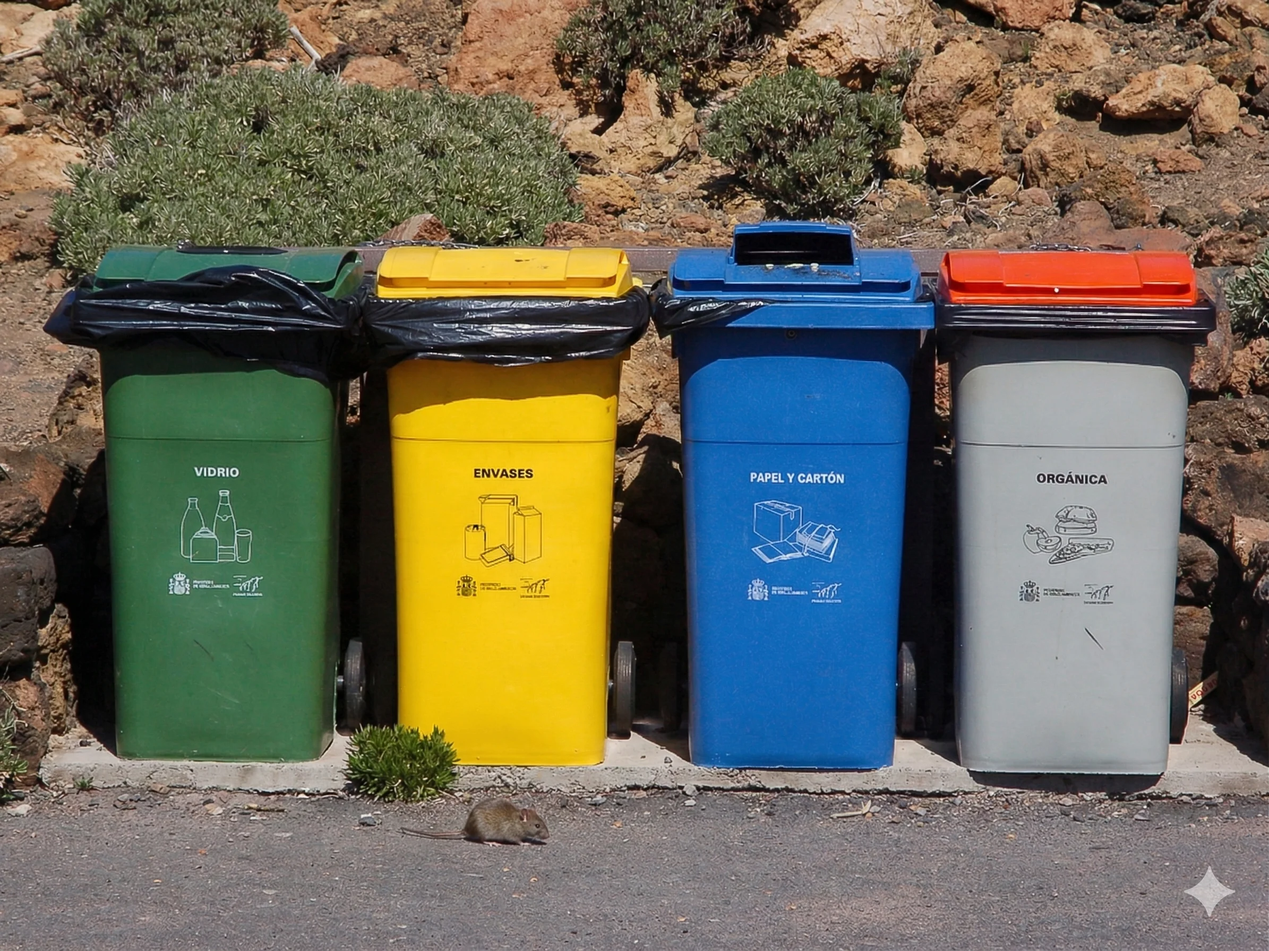
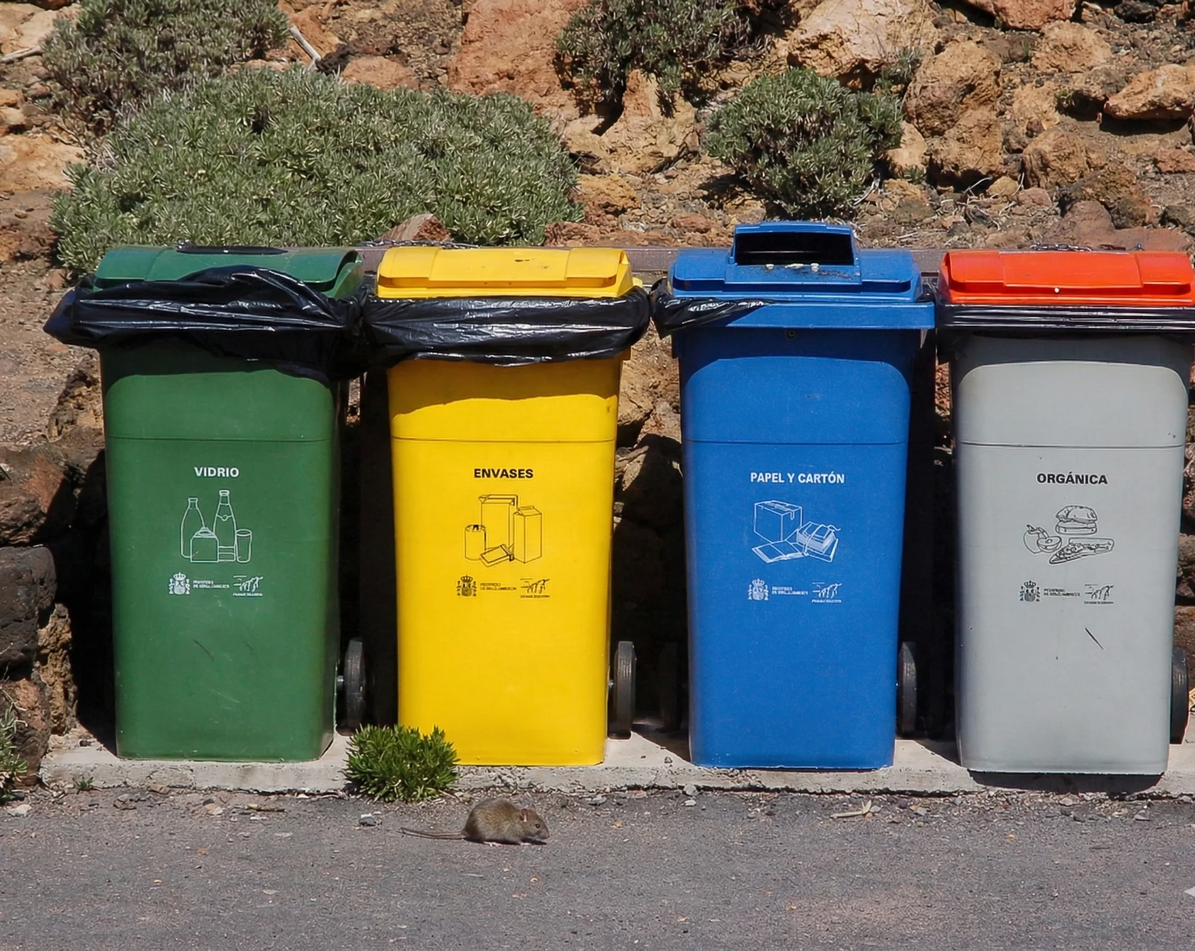
Update infrastructure page copy, crop watermark, add sitemap URL
- Update accordion text for Instalación and Tapa de fundición
- Rename Ventaja competitiva to Ventajas del sistema XANAEL with new copy
- Crop Gemini watermark from basuras.webp
- Add /noticias/ayuntalia-2025 to sitemap

diff --git a/components/soluciones/SolucionesPage.tsx b/components/soluciones/SolucionesPage.tsx
@@ -107,12 +107,12 @@ const standardSpecs = [
 ];
 
 const ventajas = [
-  "Único sistema de infraestructura preventiva en superficie urbana",
+  "Primer sistema de infraestructura preventiva de plagas integrado en la superficie urbana",
   "Compatible con cualquier empresa de control de plagas",
-  "No sustituye — complementa los sistemas existentes",
+  "No sustituye los sistemas existentes: los complementa",
   "Instalación única, sin intervenciones estructurales posteriores",
-  "Alineado con la directiva europea GIP/IPM",
-  "Registrable exclusivamente por técnicos autorizados",
+  "Alineado con la gestión integrada de plagas (GIP / IPM) de la normativa europea",
+  "Acceso registrable exclusivamente por técnicos autorizados",
 ];
 
 const inputClass =
@@ -504,8 +504,11 @@ export default function SolucionesPage() {
                       exit={{ opacity: 0, height: 0 }}
                       className="overflow-hidden"
                     >
-                      <div className="px-6 pb-6 text-sm text-gray-600 leading-relaxed">
-                        No requiere obras adicionales una vez instalado. La cámara interior es accesible en todo momento por la tapa superior sin necesidad de herramientas especiales.
+                      <div className="px-6 pb-6 text-sm text-gray-600 leading-relaxed space-y-2">
+                        <p>Se instala como un elemento más del bordillo urbano.</p>
+                        <p>Una vez colocado, no requiere obras adicionales.</p>
+                        <p>La cámara interior es accesible desde la tapa superior para tareas de revisión, monitorización o control.</p>
+                        <p>Se instala durante la ejecución del viario o sustituyendo bordillos existentes.</p>
                       </div>
                     </motion.div>
                   )}
@@ -534,9 +537,11 @@ export default function SolucionesPage() {
                       className="overflow-hidden"
                     >
                       <div className="px-6 pb-6">
-                        <p className="text-sm text-gray-600 leading-relaxed">
-                          Cada bordillo XANAEL incorpora una tapa de fundición certificada EN124 clase B125. El escudo central es personalizable con el emblema del municipio o entidad.
-                        </p>
+                        <div className="text-sm text-gray-600 leading-relaxed space-y-2">
+                          <p>Cada bordillo XANAEL incorpora una tapa de fundición certificada EN124 clase B125.</p>
+                          <p>El escudo central puede personalizarse con el emblema del municipio o entidad, reforzando su integración en el espacio público.</p>
+                          <p>Esto permite que XANAEL forme parte visible del mobiliario urbano del municipio.</p>
+                        </div>
                         {currentTapa.length > 0 && (
                           <div className="relative mt-4">
                             <div className="relative w-full aspect-[21/9] bg-[#F5F5F5] rounded-md overflow-hidden">
@@ -565,7 +570,7 @@ export default function SolucionesPage() {
           <div className="flex items-center px-6 lg:pl-[max(1.5rem,calc((100vw-80rem)/2+1.5rem))] lg:pr-16 py-14">
             <div>
               <h2 className="text-3xl sm:text-4xl font-bold text-white tracking-tight">
-                Ventaja competitiva
+                Ventajas del sistema XANAEL
               </h2>
               <ul className="mt-8 space-y-4">
                 {ventajas.map((v, i) => (
